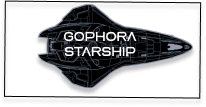
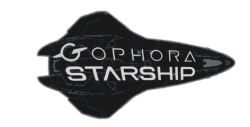
frontV3 nftcollectible nft's card updated hover

diff --git a/src/screens/NFTcollectibles.jsx b/src/screens/NFTcollectibles.jsx
@@ -1,6 +1,8 @@
 import nft1 from "../assets/nft1.png";
 import bs from "../assets/bs.png";
 import mt from "../assets/matic.png";
+import OpenSea from "../assets/opensea.png";
+import gophora from "../assets/GOPHORASTARSHIP.png";
 function NFTcollectibles() {
   return (
     <section id="nft" className="d-flex flex-column justify-content-center align-items-center">
@@ -14,9 +16,12 @@ function NFTcollectibles() {
           DISPONIBLES
         </h2>
         <div className="container d-flex justify-content-center">
-          <div className="card m-3 card-nft text-light font-class rounded-5">
+          <div className="card m-3 card-nft text-light font-class rounded-5 p-4">
             <div className="row g-0">
               <h3 className="card-title text-warning text-center p-3">CRIPTOPURR MARTE ID NFT</h3>
+              <div className="col-md-4">
+                <img src={nft1} className="img-fluid rounded" alt="..."/>
+              </div>
               <div className="col-md-8 d-flex">
                 <div className="card-body d-flex flex-column align-items-center justify-content-center">
                   <h4 className="card-text text-center p-3">200 ediciones x NFT</h4>
@@ -28,19 +33,26 @@ function NFTcollectibles() {
                   </ul>
                   <h5 className="card-title text-warning">PRECIO:</h5>
                   <p className="card-text">
-                    <small>
-                      50 Bolivianos 
+                      50 Bolivianos     
                       <img src={bs} className="img-fluid" alt="moneda boliviana" style={{maxWidth:'50px'}}/>
                       <span className="text-warning"> o </span> 
-                      10 MATIC
+                      10 MATIC 
                       <img src={mt} className="img-fluid" alt="matic" style={{maxWidth:'50px'}}/>
-                    </small>
                   </p>
                 </div>
-              </div>
-              <div className="col-md-4">
-                <img src={nft1} className="img-fluid rounded" alt="..."/>
-              </div>
+              </div> 
+            </div>
+            <div className="overlay">
+                <p>COMPRAR EN:</p>
+                <div className="iconos-contenedor">
+                    {/* <p>GOPHORA</p> */}
+                    <a href="" target="_blank" rel="noopener noreferrer">
+                      <img src={gophora} className="img-fluid" alt="matic" style={{maxWidth:'200px'}}/>
+                    </a>
+                    <a href="" target="_blank" rel="noopener noreferrer">
+                      <img src={OpenSea} className="img-fluid p-3" alt="matic" style={{maxWidth:'100px'}}/>
+                    </a>
+                </div>
             </div>
           </div>
         </div>

diff --git a/src/screens/HomeScreen.jsx b/src/screens/HomeScreen.jsx
@@ -4,8 +4,8 @@ import firstPage from "../assets/firstPage.png";
 import firstPage1 from "../assets/firstPage1.png";
 import firstPage2 from "../assets/firstPage2.png";
 import qr from "../assets/qr.png";
-import qrglobe from "../assets/qrglobe.png";
-import qrandglobe from "../assets/qrandglobe.png";
+// import qrglobe from "../assets/qrglobe.png";
+// import qrandglobe from "../assets/qrandglobe.png";
 // import criptopurrs from "../assets/criptopurrs1.png";
 // import luna from "../assets/NFT LUNA.png";
 // import tierra from "../assets/NFT TIERRA.png";
@@ -70,16 +70,20 @@ function HomeScreen() {
           <img ref={image1Ref} src={firstPage1} alt="Our team" className="first-page-image d-md-none py-4"/>
           <img ref={image2Ref} src={firstPage2} alt="Our team" className="first-page-image d-md-none"/>
           <img ref={image3Ref} src={firstPage} alt="Our team" className="first-page-image d-none d-md-block"/>
-          <p className="font-class text-light first-page-text p-5">Nuestros <span className="text-warning">NFTs</span> funcionan como una llave digital de acceso de por vida a la
-            GOPHORA STARSHIP. ¡El PREEMBARQUE está abierto!
-          </p>
+          <div className="d-flex flex-column justify-content-center align-items-center">
+            <p className="font-class text-light first-page-text pt-5">Nuestros <span className="text-warning">NFTs</span> funcionan como una llave digital de acceso de por vida a la
+              GOPHORA STARSHIP. ¡El PREEMBARQUE está abierto!
+            </p>
+            <img src={qr} alt="Our team" className="img-fluid" style={{maxWidth:'100px'}}/>
+          </div>
         </div>
         {/* body segunda parte */}
-        <div className="container d-flex flex-column align-items-center justify-content-center p-5">
+        {/* <div className="container d-flex flex-column align-items-center justify-content-center p-5">
               <img src={qr} alt="Our team" className="img-fluid d-md-none"/>
               <img src={qrglobe} alt="Our team" className="img-fluid d-md-none"/>
               <img src={qrandglobe} alt="Our team" className="img-fluid d-none d-md-block"/>
-        </div>
+        </div> */}
+
         <div className="container-fluid">
           <div className="row d-flex justify-content-center align-items-center">
             {/* <div className="col-12 my-4"> */}

diff --git a/src/index.css b/src/index.css
@@ -356,10 +356,36 @@ option{
   /* border-radius: 5%; */
   padding: 3rem;
   border: solid 4px #FC0;
-  cursor: pointer; /* Agrega un cursor de puntero al pasar sobre la tarjeta */
-  transition: box-shadow 0.3s ease; /* Añade una transición para un efecto suave */
+  /* cursor: pointer; */
+  transition: box-shadow 0.3s ease; 
 
   &:hover {
-    box-shadow: 0px 0px 40px rgba(255, 255, 255, 1); /* Agrega una sombra blanca al pasar el mouse */
+    box-shadow: 0px 0px 40px rgba(255, 255, 255, 1); 
   }
+}
+.overlay{
+  transition: all 0.2s ease;
+  opacity: 0;
+  position: absolute;
+  top: 50%;
+  left: 50%;
+  transform: translate(-50%, -50%);
+  text-align: center;
+}
+.card{
+  position: relative;
+}
+.overlay p{
+  font-size: 25px;
+  font-weight: bold;
+  margin-bottom: 0;
+}
+.card:hover .overlay{
+  opacity: 1;
+} 
+.card:hover .row{
+  opacity: 0.2  ;
+} 
+.overlay .iconos-contenedor{
+  display: flex;
 }
